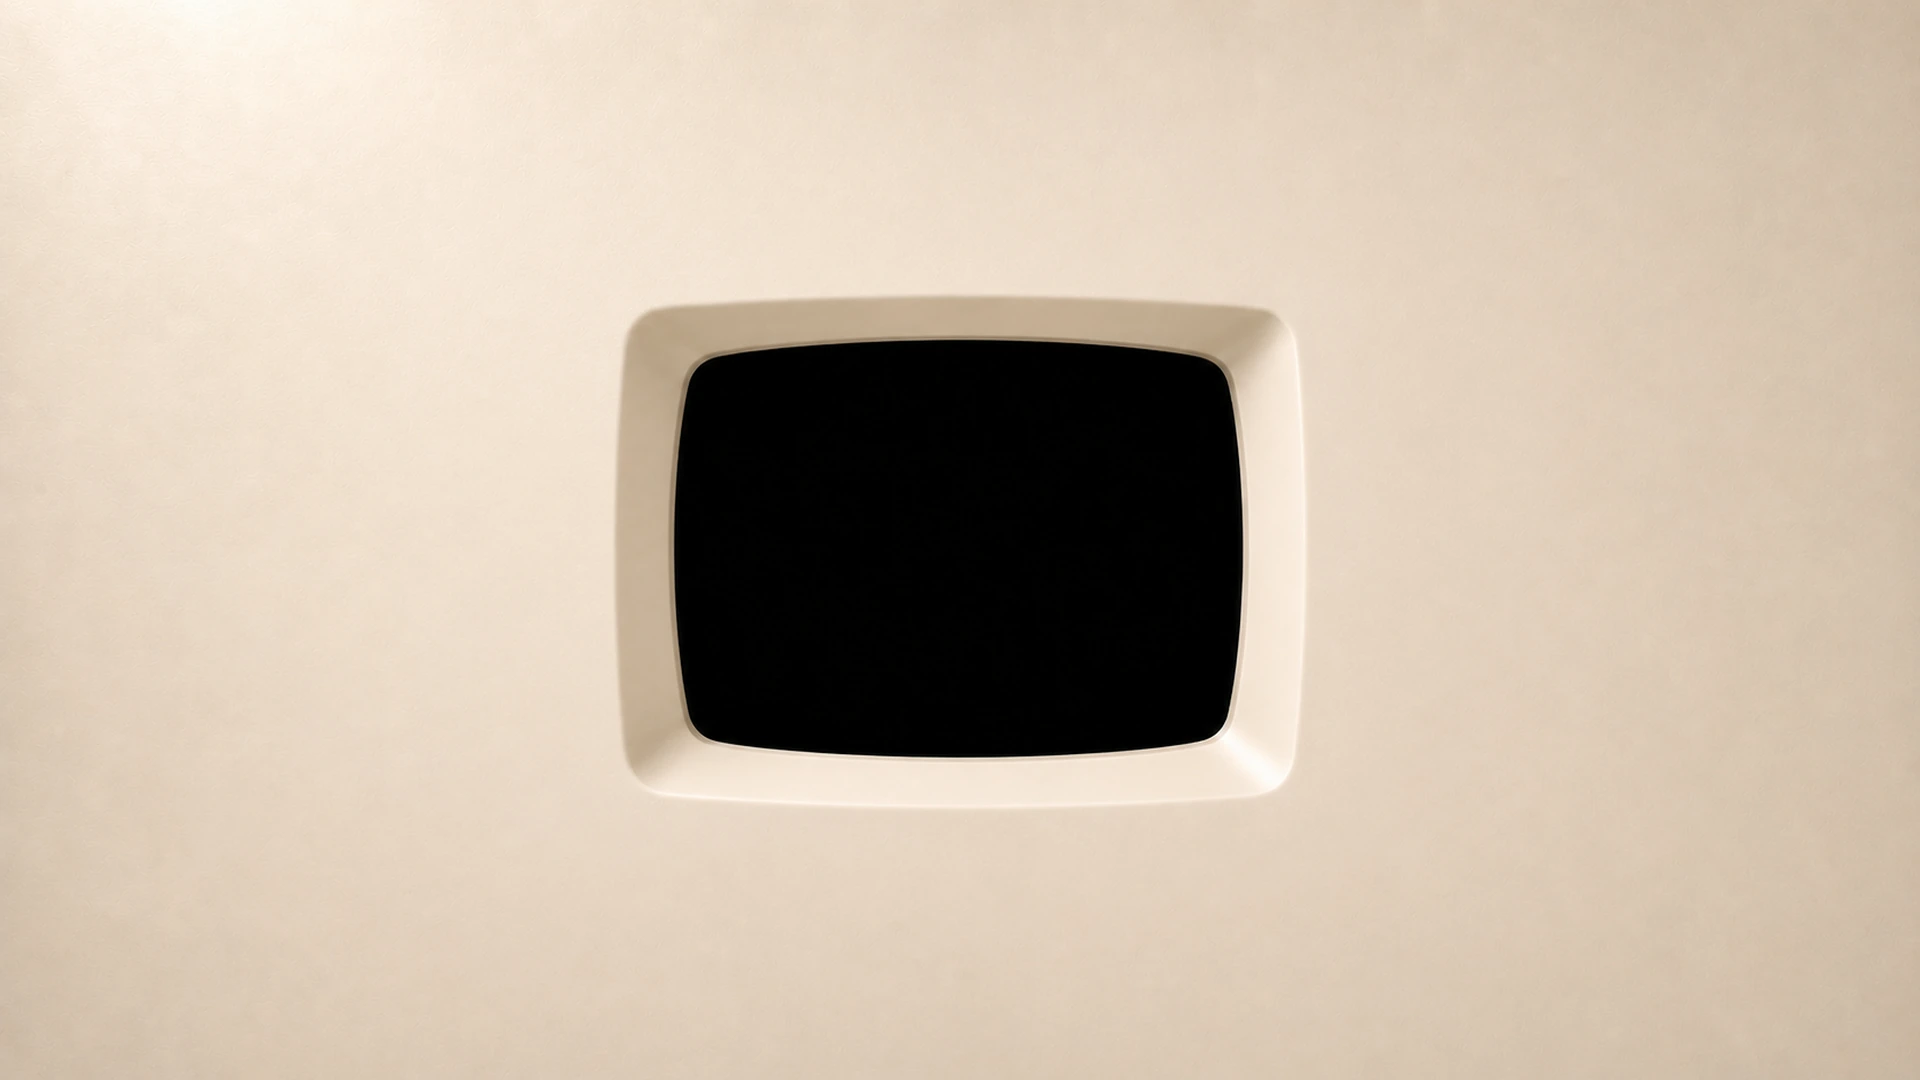
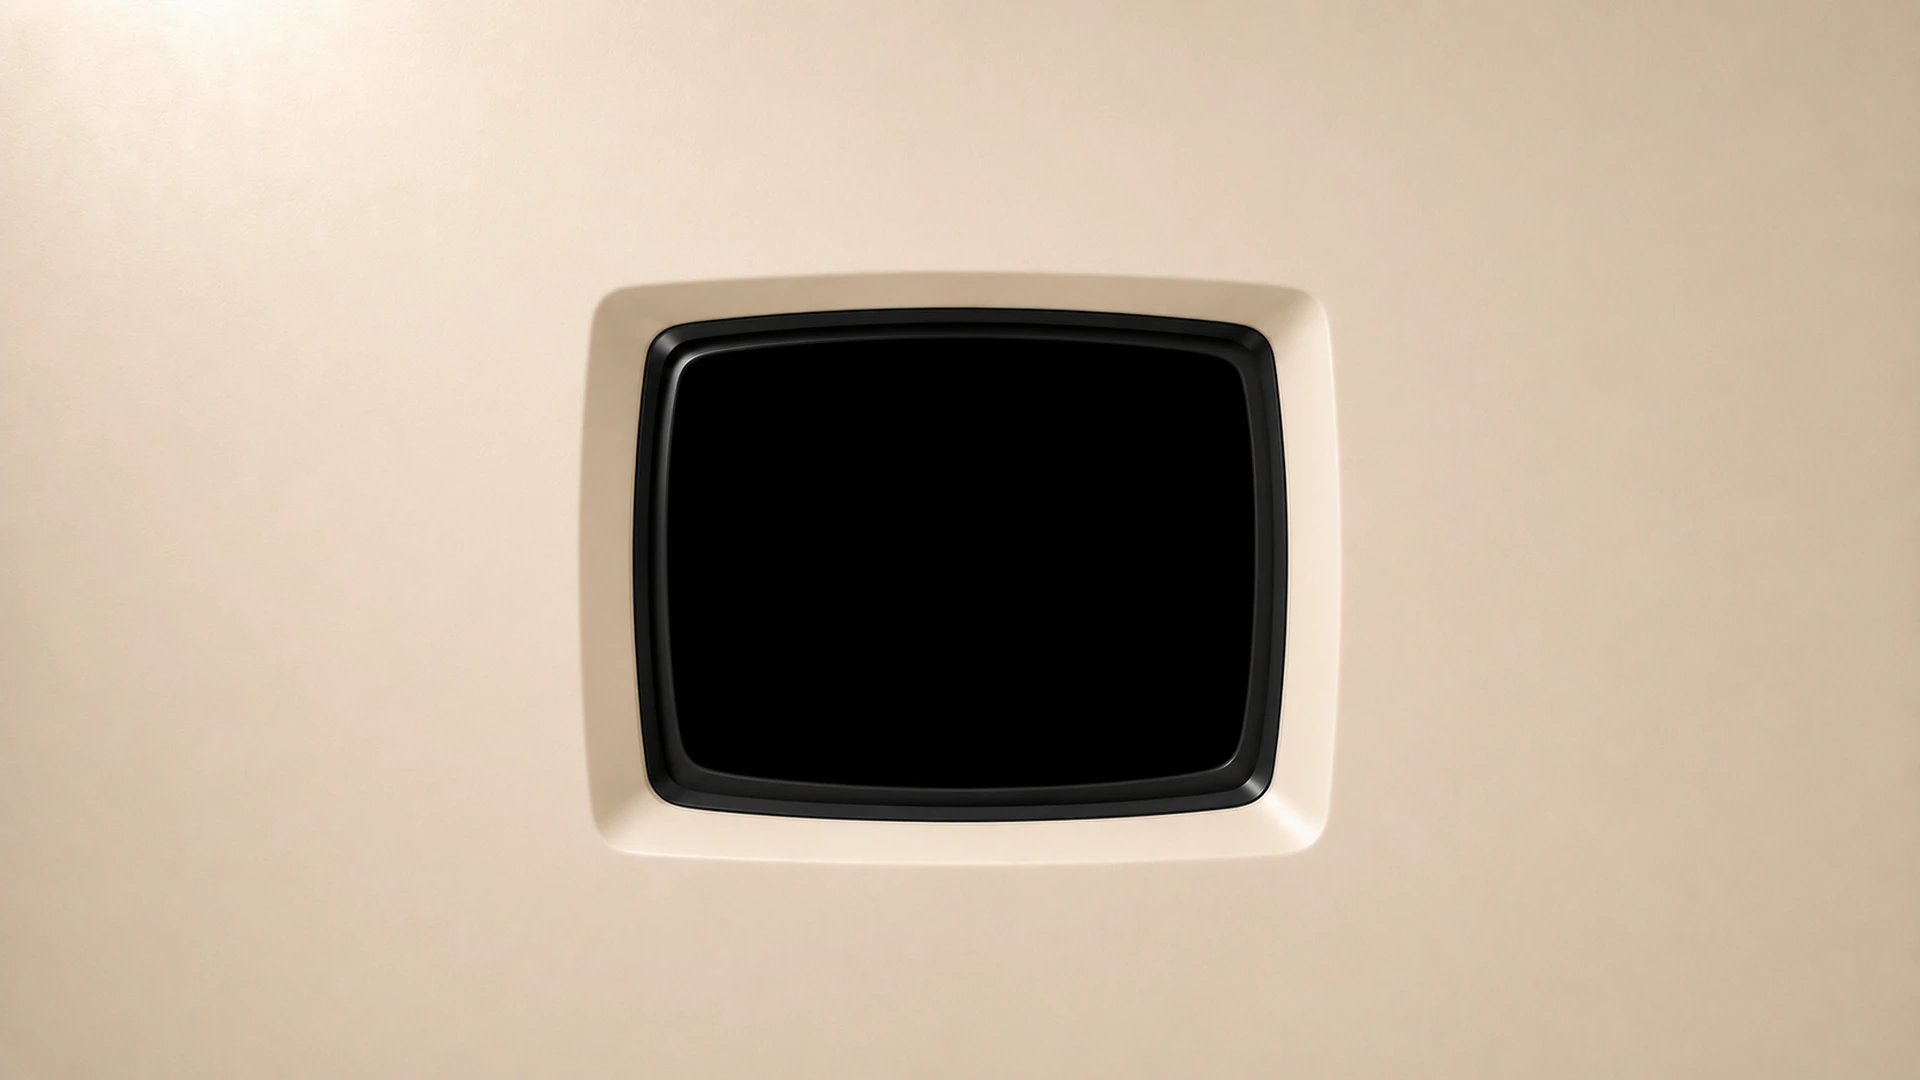
feat: add moulded CRT frames and rebalance mobile layout

Changed region(s): [[0.2812, 0.2444, 0.6875, 0.7944]]

diff --git a/src/style.css b/src/style.css
@@ -111,6 +111,7 @@ img{ display:block; -webkit-user-drag:none; user-select:none; pointer-events:non
 .rail span:nth-child(3){ opacity:.4; }
 
 .nameplate{ position:relative; width:558px; aspect-ratio:var(--ar-nameplate); }
+.machine:not(.is-compact) .nameplate{ transform:translateY(10px); }
 .nameplate img{ position:absolute; inset:0; width:100%; height:100%; }
 .nameplate__txt{
   position:absolute; inset:0; display:flex; flex-direction:column;
@@ -327,9 +328,9 @@ img{ display:block; -webkit-user-drag:none; user-select:none; pointer-events:non
 .tube__shade{ position:absolute; inset:0; width:100%; height:100%; z-index:4; mix-blend-mode:multiply; pointer-events:none; }
 .tube__gloss{
   position:absolute; inset:0; width:100%; height:100%; z-index:5;
-  mix-blend-mode:screen; opacity:.9; pointer-events:none;
-  transform:translate(-1.1%,-1.1%) scale(1.025); transform-origin:0 0;
-  filter:brightness(1.07) saturate(.9);
+  mix-blend-mode:screen; opacity:1; pointer-events:none;
+  transform:translate(1.6%,1.25%) scale(.985); transform-origin:0 0;
+  filter:brightness(1.22) contrast(1.08) saturate(.88);
 }
 .screen__bezel{ display:none; position:absolute; inset:0; width:100%; height:100%; z-index:3; }
 
@@ -555,22 +556,22 @@ img{ display:block; -webkit-user-drag:none; user-select:none; pointer-events:non
 /* The portable reference is a real vertical control panel, not the desktop
    layout squeezed into a two-column card grid. */
 .is-compact .panel--left{
-  position:absolute; left:201px; top:1126px;
-  width:539px; height:auto; padding:0; align-items:stretch; justify-content:flex-start;
+  position:absolute; left:213px; top:870px;
+  width:515px; height:auto; padding:0; align-items:stretch; justify-content:flex-start;
   transform:none;
   transition:opacity .18s ease, transform .22s cubic-bezier(.2,.8,.2,1);
 }
 .is-compact #nav-keys{ display:flex; flex-direction:column; gap:5px; }
 .is-compact .panel--right{
-  position:absolute; left:111px; top:1482px;
-  width:719px; height:174px; padding:0; display:block;
+  position:absolute; left:141px; top:1272px;
+  width:659px; height:220px; padding:0; display:block;
 }
 .is-compact .panel--right .controls-row,.is-compact .panel--right .bottom-row{
   position:relative; left:auto; top:auto; transform:none;
 }
 .is-compact .stack,.is-compact .rule{ display:none; }
 .is-compact .key,
-.is-compact .key--sm{ width:539px; height:54px; }
+.is-compact .key--sm{ width:515px; height:56px; }
 .is-compact .key__legend{
   font-size:15px; letter-spacing:.08em;
   padding-left:60px;
@@ -585,13 +586,13 @@ img{ display:block; -webkit-user-drag:none; user-select:none; pointer-events:non
 .is-compact .key.is-on .key__icon{ color:#315a3e; }
 
 .is-compact .controls-row{
-  display:grid; grid-template-columns:280px 280px; column-gap:159px; align-items:end;
+  display:grid; grid-template-columns:260px 260px; column-gap:139px; align-items:end;
   position:relative;
 }
 .is-compact .controls-row::before{
   content:none; display:none;
 }
-.is-compact .control{ width:280px; }
+.is-compact .control{ width:260px; }
 .is-compact .control__row{ margin-top:13px; gap:12px; }
 .is-compact .control:first-child .caption{ font-size:0; }
 .is-compact .control:first-child .caption::before{ content:"CRT"; font-size:15px; }
@@ -603,10 +604,10 @@ img{ display:block; -webkit-user-drag:none; user-select:none; pointer-events:non
 .is-compact .slider{ width:142px; margin:0; }
 
 .is-compact .bottom-row{
-  display:block; margin-top:20px;
+  display:block; margin-top:22px;
 }
 .is-compact .grille{ display:none; }
-.is-compact .panel--right .bottom-row .power{ width:max-content; margin:28px auto 0; transform:none; }
+.is-compact .panel--right .bottom-row .power{ width:max-content; margin:25px auto 0; transform:none; }
 .is-compact .power::before{
   content:"POWER"; position:absolute; left:50%; top:-35px; translate:-50% 0;
   font-size:15px; font-weight:650; letter-spacing:.08em; color:var(--ink-hard);

diff --git a/tools/build_chassis.py b/tools/build_chassis.py
@@ -1,21 +1,40 @@
-"""Prepare the selected desktop chassis without geometric distortion."""
+"""Prepare the supplied moulded desktop/mobile chassis without distortion."""
 import json
+import math
 from pathlib import Path
 
 import numpy as np
-from PIL import Image, ImageFilter
+from PIL import Image, ImageDraw
 
 ROOT = Path(__file__).resolve().parents[1]
-SOURCE = ROOT / "assets" / "src" / "chassis-reference-centered.png"
-MOBILE_SOURCE = ROOT / "assets" / "src" / "ChatGPT Image 25 août 2026, 00_31_47 (1).png"
+SOURCE = ROOT / "assets" / "src" / "chassis-moulding-desktop.png"
+MOBILE_SOURCE = ROOT / "assets" / "src" / "chassis-moulding-mobile.png"
 EXPORT = ROOT / "assets" / "chassis"
 BUILD = ROOT / "assets" / "build"
 
+# Measured at the bright inner lip of the supplied black moulding. The plate
+# remains fully photographic; this mask only decides which central pixels are
+# replaced by the live raster and therefore preserves the entire black rim.
+DESKTOP_APERTURE = (581, 295, 1092, 686)
+MOBILE_APERTURE = (246, 298, 694, 779)
 
-def opening_mask(source):
-    luminance = np.asarray(source, dtype=np.float32).mean(axis=2)
-    opening = Image.fromarray((luminance < 28).astype(np.uint8) * 255)
-    return opening.filter(ImageFilter.MaxFilter(5)).filter(ImageFilter.MinFilter(5))
+
+def opening_mask(size, box, exponent=5.2, supersample=4):
+    """Antialiased superellipse matching the CRT glass inside the moulding."""
+    width, height = size
+    x0, y0, x1, y1 = box
+    cx, cy = (x0 + x1) * .5, (y0 + y1) * .5
+    rx, ry = (x1 - x0) * .5, (y1 - y0) * .5
+    points = []
+    for step in range(720):
+        angle = step / 720 * math.tau
+        c, s = math.cos(angle), math.sin(angle)
+        x = cx + rx * math.copysign(abs(c) ** (2 / exponent), c)
+        y = cy + ry * math.copysign(abs(s) ** (2 / exponent), s)
+        points.append((round(x * supersample), round(y * supersample)))
+    mask = Image.new("L", (width * supersample, height * supersample), 0)
+    ImageDraw.Draw(mask).polygon(points, fill=255)
+    return mask.resize((width, height), Image.Resampling.LANCZOS)
 
 
 def aperture_from_mask(mask):
@@ -48,7 +67,7 @@ def main():
         crop_height = width * 9 / 16
         crop_box = (0, (height - crop_height) / 2, width, (height + crop_height) / 2)
 
-    opening = opening_mask(source)
+    opening = opening_mask(source.size, DESKTOP_APERTURE)
 
     aperture = None
     for suffix, size in (("1920", (1920, 1080)), ("4k", (3840, 2160))):
@@ -63,7 +82,7 @@ def main():
             aperture = aperture_from_mask(hole)
 
     mobile = Image.open(MOBILE_SOURCE).convert("RGB")
-    mobile_hole = opening_mask(mobile)
+    mobile_hole = opening_mask(mobile.size, MOBILE_APERTURE, exponent=4.8)
     mobile_frame = transparent_frame(mobile, mobile_hole)
     mobile.save(EXPORT / "chassis-mobile.webp", "WEBP", quality=92, method=6)
     mobile_frame.save(BUILD / "chassis-frame-mobile.webp", "WEBP", quality=92, method=6)

diff --git a/tools/make_qa_comparisons.py b/tools/make_qa_comparisons.py
@@ -28,14 +28,14 @@ def panel(image, size, label, cover=False):
 
 def main():
     QA.mkdir(exist_ok=True)
-    desktop_source = Image.open(ROOT / "assets" / "src" / "target_portfolio.png")
+    desktop_source = Image.open(ROOT / "assets" / "src" / "chassis-moulding-desktop.png")
     desktop_final = Image.open(QA / "desktop-final.png")
     desktop = Image.new("RGB", (1920, 540), "#1b1916")
     desktop.paste(panel(desktop_source, (960, 540), "SOURCE TARGET"), (0, 0))
     desktop.paste(panel(desktop_final, (960, 540), "IMPLEMENTATION"), (960, 0))
     desktop.save(QA / "desktop-comparison.png", optimize=True)
 
-    mobile_source = Image.open(ROOT / "assets" / "src" / "ChatGPT Image 25 août 2026, 00_31_47 (1).png")
+    mobile_source = Image.open(ROOT / "assets" / "src" / "chassis-moulding-mobile.png")
     mobile_final = Image.open(QA / "mobile-final.png")
     mobile = Image.new("RGB", (860, 900), "#1b1916")
     mobile.paste(panel(mobile_source, (430, 900), "SOURCE PLATE", cover=True), (0, 0))

diff --git a/design-qa.md b/design-qa.md
@@ -1,59 +1,84 @@
-# Design QA — JG-1500 CRT and responsive pass
+# Design QA — moulded CRT frame and mobile recomposition
 
-## Source truth
+## Source truth and normalization
 
-- Desktop composition: `assets/src/target_portfolio.png`, with the later
-  user-selected centered chassis in `assets/src/chassis-reference-centered.png`.
-- Mobile plate: `assets/src/ChatGPT Image 25 août 2026, 00_31_47 (1).png`
-  at 941 × 1672.
-- The centered desktop chassis intentionally overrides the older target's
-  larger CRT opening. Neither desktop nor mobile source is stretched.
+- Desktop source: `assets/src/chassis-moulding-desktop.png`, 1672 × 941.
+- Mobile source: `assets/src/chassis-moulding-mobile.png`, 941 × 1672.
+- Desktop implementation: `C:/Users/jorda/AppData/Local/Temp/jg1500-moulding-desktop.png`,
+  browser viewport and output 1920 × 1080, DPR 1.
+- Mobile implementation: `C:/Users/jorda/AppData/Local/Temp/jg1500-moulding-mobile.png`,
+  browser viewport and output 430 × 900, DPR 1.
+- The desktop source was normalized to 960 × 540. The mobile source was
+  center-cover-cropped to the same 430 × 900 viewport as the implementation;
+  no source image was stretched.
+- State: HOME for full-view comparisons; first article detail for responsive
+  content and CRT-effect verification.
 
-## Combined visual comparisons
+## Comparison evidence
 
-- `qa/desktop-comparison.png` places the target and final 1920 × 1080 state on
-  the same canvas.
-- `qa/mobile-comparison.png` places the cover-cropped mobile source plate and
-  final 430 × 900 state on the same canvas.
-- Supporting captures: `qa/desktop-final.png`,
-  `qa/desktop-article-final.png`, `qa/mobile-final.png`, and
-  `qa/mobile-article-final.png`.
+- Desktop full view:
+  `C:/Users/jorda/AppData/Local/Temp/jg1500-moulding-desktop-comparison.png`.
+- Mobile full view:
+  `C:/Users/jorda/AppData/Local/Temp/jg1500-moulding-mobile-comparison.png`.
+- Focused CRT/moulding comparison:
+  `C:/Users/jorda/AppData/Local/Temp/jg1500-moulding-focus-comparison.png`.
+- Mobile article state:
+  `C:/Users/jorda/AppData/Local/Temp/jg1500-moulding-mobile-article.png`.
 
-Both combined comparisons were inspected at original resolution. The mobile
-opening, moulded contour, highlight direction, cream texture and full-bleed
-cover crop remain registered to the supplied plate. The only desktop geometry
-departure from the older target is the explicitly preferred smaller, centered
-screen.
+The source and rendered captures were placed together in each comparison input
+and inspected at original resolution.
 
-## Findings and fixes
+## Required fidelity surfaces
 
-- Lighting: the real glass gloss asset is anchored and strengthened toward the
-  upper-left inner corner. A zoomed inspection confirms that the reflected
-  shoulder starts at the top-left edge rather than floating over content.
-- CRT raster: scanline troughs now use a narrow seventh-power profile with
-  lower amplitude. Aperture-grille strength and noise are also reduced to
-  prevent thick bands and moiré.
-- Article rendering: long-form content again receives fine scanlines, a subtle
-  phosphor grille, glass shade and upper-left gloss. The CRT switch removes the
-  article overlays as well as the canvas effect.
-- Mobile background: the portrait asset is converted to a transparent-aperture
-  frame and cover-fitted at its native aspect ratio. At 430 × 900 the machine
-  extends 38.6 px past each horizontal edge by design, which fills the viewport
-  without distortion or background bars.
-- Mobile layout: the hamburger icon is absent. The screen ends at 588.3 px,
-  navigation occupies 606.0–793.7 px, and controls begin at 797.4 px; these
-  regions do not overlap. A stray `CRT EFFECTS` pseudo-label found during the
-  first capture was removed from the CONTACT-button area.
-- Article mobile: rich text and code remain readable and independently
-  scrollable inside the photographed opening.
+- Fonts and typography: panel and terminal families, weights, tracking and
+  hierarchy remain unchanged and readable. The mobile article keeps its title,
+  metadata, heading and body rhythm without clipping.
+- Spacing and layout: the desktop nameplate is 10px lower. At 430 × 900 the
+  live glass ends at 419.3px, navigation occupies 468.3–662.6px, and controls
+  occupy 684.7–803.1px. These regions have deliberate gaps and do not overlap.
+- Colors and tokens: the photographic cream field and black moulding are used
+  directly. Existing green phosphor, amber accents and hardware ink remain
+  consistent with the supplied references.
+- Image quality and assets: both user-supplied raster plates are used at their
+  native aspect ratios. Only the inner-glass superellipse is transparent; the
+  full black moulding, its highlights and contact shadow remain photographic.
+  No CSS-drawn bezel substitutes the supplied asset.
+- Copy and content: navigation labels, terminal copy and article content are
+  unchanged. No text crosses the frame or a control.
+- Icons and controls: the Font Awesome mobile icons remain optically aligned;
+  all six navigation keys, switch, slider and rocker remain visible and usable.
+- Accessibility and interaction: native buttons and ARIA switch/slider states
+  remain intact. Focus/selected states are visible and the article has its own
+  scroll region.
 
-## Verification
+## Comparison history
 
-- `pnpm.cmd build`: passed; production single-file output generated.
-- `pnpm.cmd test`: all smoke, WebGL, navigation, power, slider, keyboard,
-  responsive and interaction checks passed.
-- Browser states checked at 1920 × 1080 and 430 × 900: HOME and article detail.
-- CRT article switch: overlay opacity changes from 0.72/0.17 to 0/0 when OFF.
-- Browser console: no application errors.
+- Earlier P1: the inner black moulding was absent because the complete dark
+  opening was cut transparent. Fix: measure the inner glass separately and use
+  an antialiased superellipse mask. Post-fix evidence: the focused comparison
+  shows the supplied black rim continuously around the live CRT.
+- Earlier P1: the mobile frame was too large and too low, causing the control
+  stack to crowd it. Fix: use the new portrait plate and move navigation to
+  design y=870 and controls to y=1272. Post-fix evidence: the mobile comparison
+  and measured rectangles show no intersections.
+- Earlier P2: the upper-left reflection read as a small clipped point. Fix:
+  reposition the real gloss asset 1.6% inward and increase its brightness and
+  opacity. Post-fix evidence: the focused comparison shows a broad reflection
+  following both the upper and left glass curvature.
+- Earlier P3: the desktop nameplate sat slightly high. Fix: move only the
+  desktop plate down 10px, keeping the rails and mobile layout stable.
 
-Final result: passed
+## Browser verification
+
+- Page identity and meaningful DOM content: passed.
+- Framework overlay: absent.
+- Console errors/warnings: none.
+- Primary interaction: ARTICLES → first detail opened on mobile; passed.
+- CRT switch on article: scanline overlay opacity changes from 0.72 to 0 when
+  OFF and returns when ON; passed.
+- Responsive screenshots: 1920 × 1080 and 430 × 900 captured and compared.
+
+No actionable P0, P1 or P2 differences remain. The photographed moulding and
+live raster are registered cleanly at both target viewports.
+
+final result: passed

diff --git a/DESIGN.md b/DESIGN.md
@@ -10,12 +10,12 @@ green phosphor. It is restrained, tactile, technical, and never card-based.
 
 ## Visual source of truth
 
-- Desktop reference: `../target_design/target_portfolio.png` at 1672 × 941,
-  refined by the user-selected `assets/src/chassis-reference-centered.png`. The latter is
-  cropped symmetrically by less than one source pixel vertically, never
-  stretched, and exported at 1920 × 1080 and 3840 × 2160.
-- Portable/mobile: user-supplied
-  `assets/src/ChatGPT Image 25 août 2026, 00_31_47 (1).png` at 941 × 1672.
+- Desktop reference: user-supplied
+  `assets/src/chassis-moulding-desktop.png` at 1672 × 941. It is cropped
+  symmetrically by less than one source pixel vertically, never stretched, and
+  exported at 1920 × 1080 and 3840 × 2160.
+- Portable/mobile: user-supplied `assets/src/chassis-moulding-mobile.png` at
+  941 × 1672.
   It is used as a full-bleed portrait plate without stretching; its black
   opening becomes a transparent aperture for the live CRT.
 
@@ -31,23 +31,24 @@ green phosphor. It is restrained, tactile, technical, and never card-based.
 - CRT black-green: `#030604`
 - P1 phosphor: `#2fd06d`
 
-The desktop chassis and CRT recess are one photographic 16:9 plate. Its black
-opening is converted to a transparent aperture so the live CRT sits behind the
-original moulded rim instead of behind a second bezel. Switches, grille, and
+The desktop chassis and CRT recess are one photographic 16:9 plate. Only the
+central glass is converted to a transparent aperture: the complete black inner
+moulding stays photographic and sits above the live CRT. Switches, grille, and
 rocker still come from `assets/build/*.webp`. Navigation/action keys follow the supplied
 `soft-ui-neumorphic-buttons-led-dynamic-palette-cavity-slider.html`: every
 highlight, shadow, cavity and face is derived from the terminal's cream panel
 surface, so the controls read as one moulded assembly. A small integrated LED
 at the upper-right owns route selection without recolouring the entire face.
 CSS owns layout, travel, focus, and responsive composition.
-The glass specular is anchored to the tube's upper-left inner curvature: its
-bright shoulder grazes the left edge and never floats over terminal content.
+The glass specular is anchored slightly inside the tube's upper-left curvature:
+its broad shoulder follows the top and left glass edges instead of collapsing
+to a point or floating over terminal content.
 
 ## Geometry
 
 Desktop uses a native 1920 × 1080 photographic design surface with three fixed
-columns: 512 / 896 / 512. The screen is registered to the detected aperture at
-35.1562–64.7396% horizontally and 31.5741–70% vertically. This compact,
+columns: 512 / 896 / 512. The screen is registered to the measured inner-glass
+aperture at 34.7396–65.3125% horizontally and 31.2963–72.963% vertically. This compact,
 centered frame is an explicit user preference over the larger target-design
 opening. Navigation and actions
 are narrow, vertically balanced rails. Desktop keys keep their 3.4577:1
@@ -62,7 +63,10 @@ omitted from the reference state.
 Portable uses the portrait plate's native 941 × 1672 surface with a cover fit.
 Its order is nameplate, large CRT, six full-width navigation keys, paired
 CRT/volume controls, then power. Navigation never becomes a two-column grid
-and stays directly accessible; there is no hamburger/menu control.
+and stays directly accessible; there is no hamburger/menu control. The live
+glass occupies 26.1424–73.7513% horizontally and 17.823–46.5909% vertically.
+The photographic frame ends before the navigation begins, leaving a deliberate
+65px design-space gap and preventing the keys from touching the moulding.
 
 ## Typography and iconography
 
